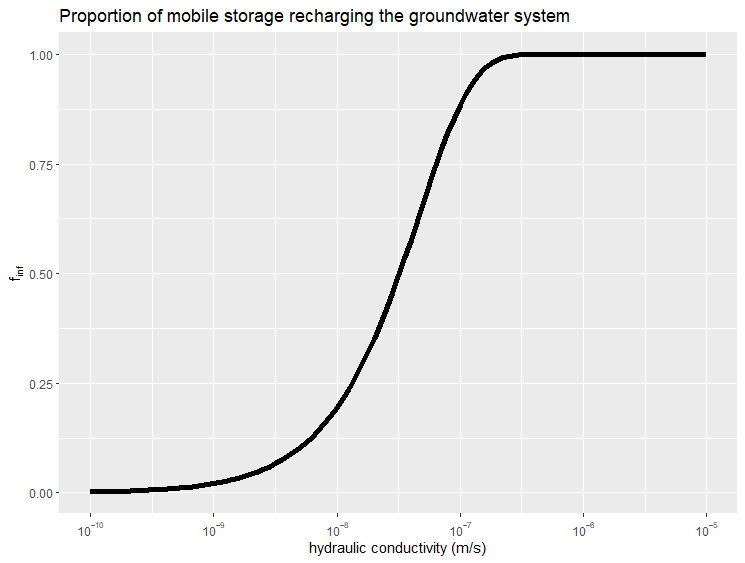
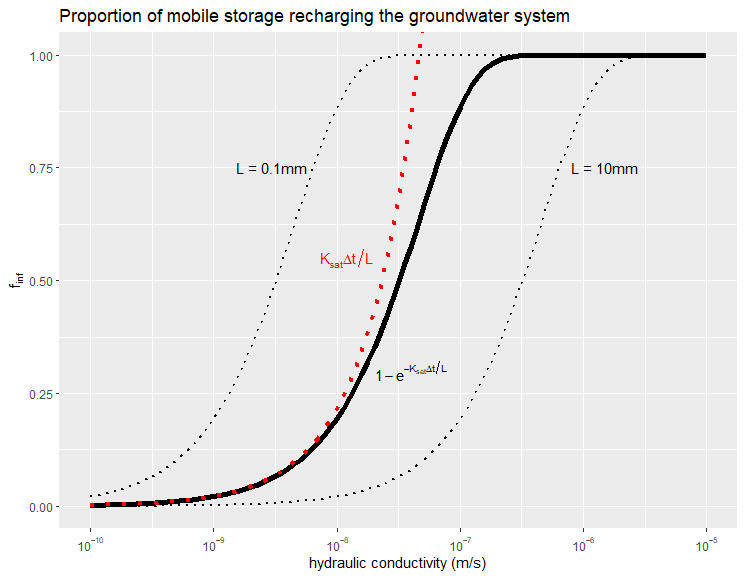
u

diff --git a/modelling/waterbudget/sma.md b/modelling/waterbudget/sma.md
@@ -68,8 +68,10 @@ $$
   g=S^+\left[1-\exp\left(\frac{-K_\text{sat}}{L}\Delta t\right)\right].
 $$
 
-It is important that the second term of the groundwater recharge equation remain to control so-called _**"cascade towers"**_ which occur when confluences in the [cascade network](/interpolants/modelling/waterbudget/overlandflow.html#cascade-network) create unrealistically high stages. (This is mainly a consequence of the simplicity of the overland flow scheme applied here---normally, the [pressure term](/info/lia/#conservation-of-momentum) in the shallow water equations provides this control physically.) Here the interface length $L=1\text{ mm}$ globally an gives the function form (at $\Delta t=$).
+It is important that the second term of the groundwater recharge equation remain to control so-called _**"cascade towers"**_ which occur when confluences in the [cascade network](/interpolants/modelling/waterbudget/overlandflow.html#cascade-network) create unrealistically high stages. (This is mainly a consequence of the simplicity of the overland flow scheme applied here---normally, the [pressure term](/info/lia/#conservation-of-momentum) in the shallow water equations provides this control physically.) Here the interface length $L=1\text{ mm}$ globally an gives the function form (at $\Delta t=21600 \text{ sec}$).
 
 <br>
 
 ![](../fig/rdrr-sma-recharge.png)
+
+*Visual interpretation of the above function. Characteristic length $L$ can clearly be used as a scaling factor, showing here how it varies from $L=1\text{ mm}$. $(\Delta t=21600 \text{ sec}.)$*

diff --git a/modelling/waterbudget/overlandflow.md b/modelling/waterbudget/overlandflow.md
@@ -20,6 +20,7 @@ A property of the cascade is that when it involved a sequence of many linear res
 <br>
 
 ![Engineer Manual, 1994](../fig/A-concept-of-a-Nash-model-cascade-of-linear-reservoirs-Engineer-Manual-1994_W640.jpg)
+
 *The "Nash Cascade" (after USACE, 1994).*
 
 <br>
